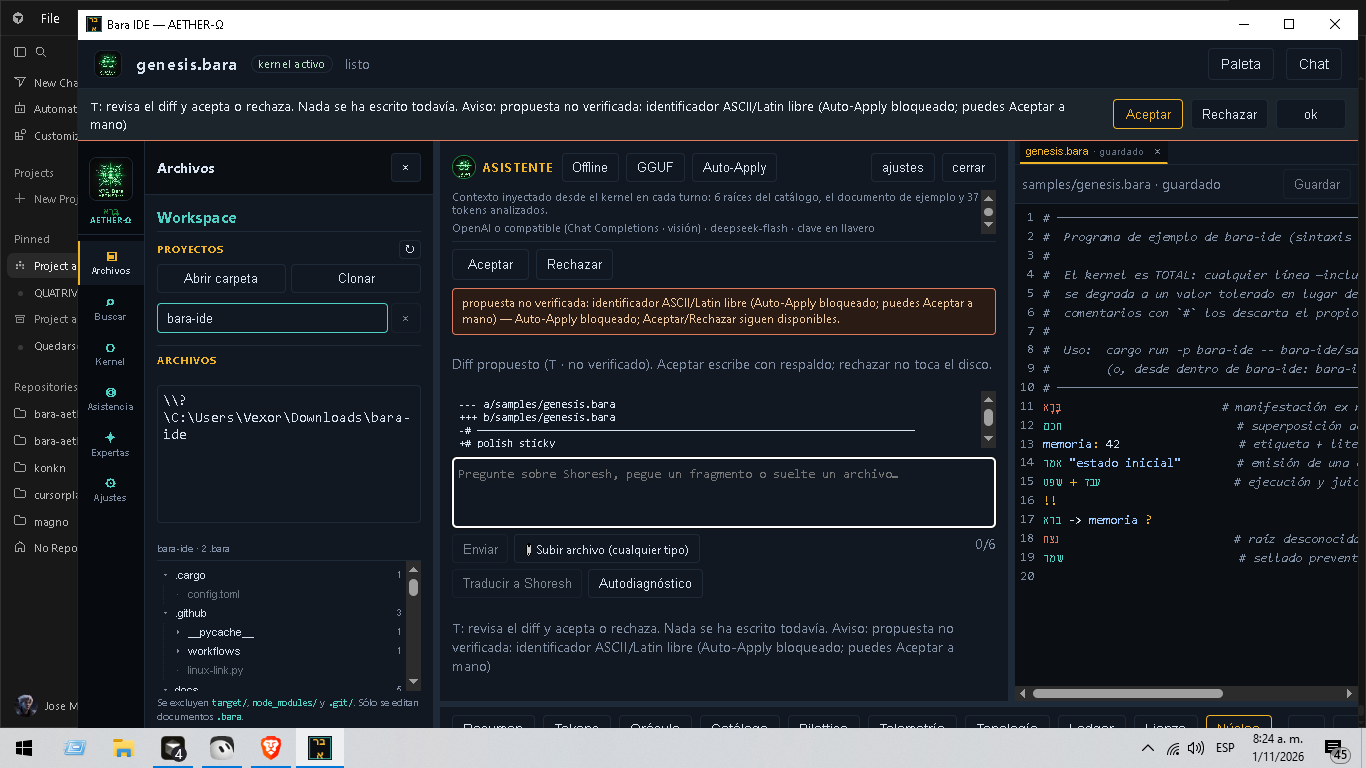
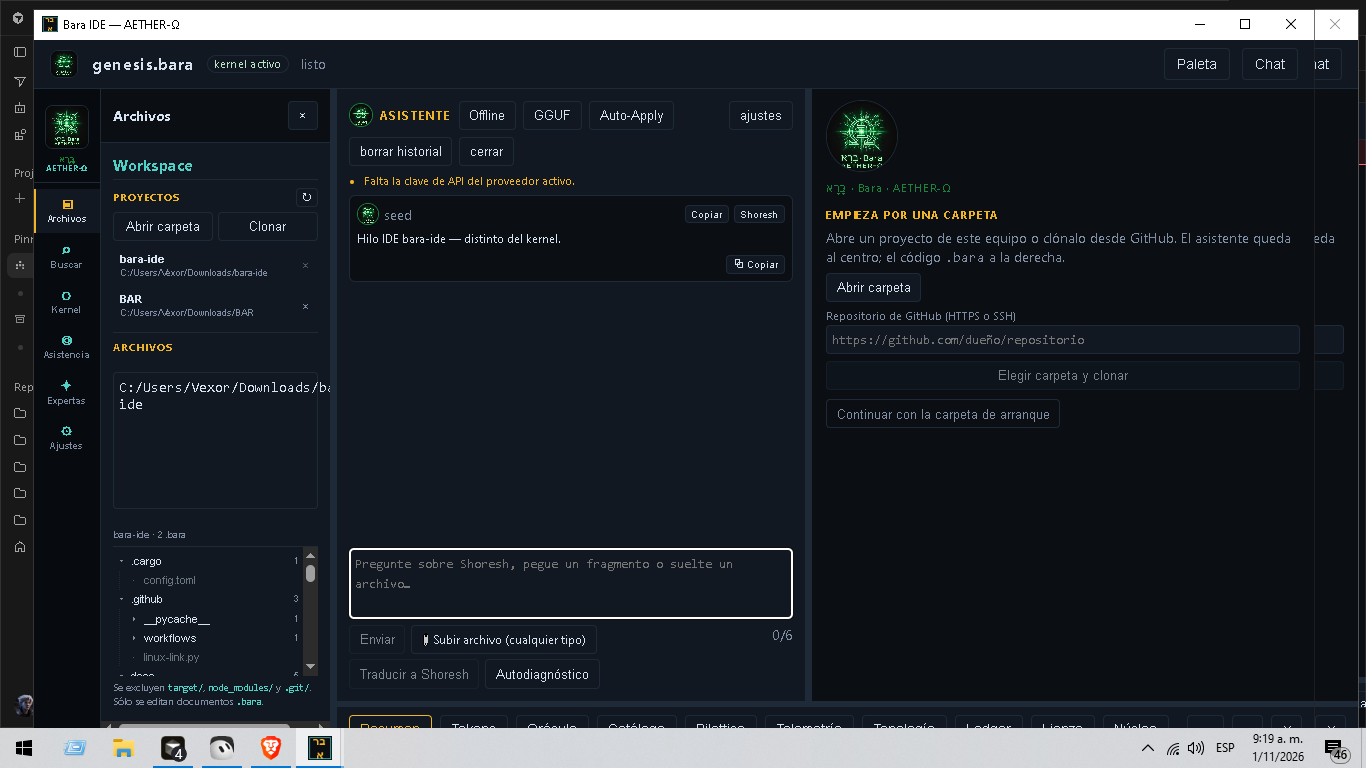
fix(workspace): ACL reopen + clave historial Win32 + capturas PROYECTOS
Permiso workspace_reopen; projectKey sin prefijo \\?\; shots tauri:dev multi-proyecto. Sin NSIS.

diff --git a/web/src/projectRecents.test.ts b/web/src/projectRecents.test.ts
@@ -18,6 +18,17 @@ describe("shortPath", () => {
   });
 });
 
+describe("projectKey", () => {
+  it("normaliza \\?\\ de Windows al mismo id", () => {
+    expect(projectKey(String.raw`\\?\C:\Users\Vexor\Downloads\BAR`)).toBe(
+      "c:/users/vexor/downloads/bar",
+    );
+    expect(projectKey("C:/Users/Vexor/Downloads/BAR")).toBe(
+      "c:/users/vexor/downloads/bar",
+    );
+  });
+});
+
 describe("projectRecents", () => {
   beforeEach(() => {
     localStorage.clear();

diff --git a/web/src/ai/projectKey.ts b/web/src/ai/projectKey.ts
@@ -1,4 +1,7 @@
 /** Clave estable de historial/recientes a partir de la raíz del workspace. */
 export function projectKey(root: string): string {
-  return root.replace(/\\/g, "/").trim().toLowerCase();
+  let normalized = root.replace(/\\/g, "/").trim().toLowerCase();
+  // Canonización Win32 extendida: \\?\C:\... → //?/c:/... → c:/...
+  normalized = normalized.replace(/^\/\/\?\//, "").replace(/^\/\?\//, "");
+  return normalized;
 }

diff --git a/web/src/projectRecents.ts b/web/src/projectRecents.ts
@@ -18,7 +18,8 @@ interface Store {
 
 /** Path corto para la lista (cola legible). */
 export function shortPath(path: string, max = 42): string {
-  const normalized = path.replace(/\\/g, "/").trim();
+  let normalized = path.replace(/\\/g, "/").trim();
+  normalized = normalized.replace(/^\/\/\?\//, "").replace(/^\/\?\//, "");
   if (normalized.length <= max) {
     return normalized;
   }

diff --git a/src-tauri/build.rs b/src-tauri/build.rs
@@ -159,6 +159,7 @@ const APP_COMMANDS: &[&str] = &[
     "workspace_roots",
     "workspace_activate",
     "workspace_close_root",
+    "workspace_reopen",
     "open_desk_window",
     "propose_editor_patch",
     "propose_ai_desk_attachment",
